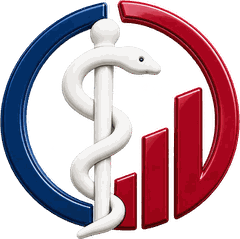
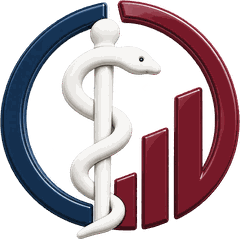
Verbindliche Logofassung einsetzen und das 3D-Signet daran ausrichten
Die hochgeladene Datei ist eine ANDERE als die, die bisher als Vorlage diente -
nicht nur eine andere Aufloesung. Gemessen:

  Rot   bisher #A7041C (helles Karminrot)  jetzt #741625 (Bordeaux)
  Blau  bisher helles Royalblau            jetzt #122F50

Beide entsprechen jetzt exakt den Farbtokens der Website. Das war der sichtbare
Fehler.

UEBER-UNS-SEITE
Dort steht die verbindliche Datei 1:1. Sie ist RGB ohne Alphakanal und traegt
den hellen Renderhintergrund fest im Bild - ein Freistellen scheitert an der
Vorlage: Der weisse Stab misst (244,241,238), der Grund daneben (244,239,238),
und ein Fuellalgorithmus frisst sich durch Stab, Schlange und "finanz".

Statt freizustellen ist der Grund auf das Elfenbein der Seite gezogen: Der
Verlauf des Renders wird oertlich geschaetzt (starker Weichzeichner durch die
Hintergrundmaske geteilt) und pixelweise auf #FAF8F7 verschoben, gewichtet
danach, wie hintergrundhaft ein Pixel ist. Die Bildkanten laufen weich aus.
Ergebnis: kein Kasten, keine Kante, nur der Schlagschatten der Marke selbst.

KOPF- UND FUSSZEILE
Dort geht das nicht - auf Navy stuende ein heller Kasten. Deshalb steht dort
weiter die freigestellte Datei aus dem Zweig netlify-website-changes, aber auf
die verbindlichen Farben umgefaerbt: Ton und Saettigung je Farbfamilie auf die
gemessenen Mediane, Helligkeit im gleichen Verhaeltnis, damit die Plastizitaet
des Renders erhalten bleibt. Bei 38 px liest sich das richtig; die Geometrie
[…]

diff --git a/assets/js/scene.js b/assets/js/scene.js
@@ -103,23 +103,30 @@
      0.92/245.3 umgerechnet, die y-Achse gespiegelt, weil Bilder nach unten
      zählen.
 
-     Zuvor stammten diese Maße aus einer nachgezeichneten SVG-Fassung und
-     wichen an drei Stellen sichtbar von der Vorlage ab: Die große Ringlücke
-     saß oben statt unten, der Stab stand zu weit links (-0.224 statt -0.097),
-     und alle Strichstärken waren rund ein Drittel der echten. Die Nachzeichnung
-     ist entfallen — überall steht jetzt die Originaldatei. */
+     Nachgemessen an der verbindlichen Fassung, die der Inhaber geliefert hat
+     (Logo_finanz-medizin.png, 1254 x 1254). Sie weicht von der Datei ab, die
+     zuvor als Vorlage diente: Deren Rot war ein helles Karminrot (#A7041C),
+     hier ist es das Bordeaux der Marke (gemessener Median #741625), und das
+     Blau ist #122F50 statt eines helleren Royalblaus. Beide entsprechen damit
+     genau den Farbtokens der Website.
+
+     Der Ring in der verbindlichen Fassung: Mitte (370.5, 351.9), Radius 314.9,
+     Strichstärke 60.8 px = 19,3 % des Radius. Der blaue Bogen läuft von 106°
+     über links und unten bis 301°, der bordeauxfarbene von 100° über rechts
+     bis ebenfalls rund 301°. Es gibt also nur EINE Lücke, oben, wo der Knauf
+     sitzt — unten stoßen die Bögen aneinander. */
   var SIG = {
     stabX: -0.097, stabUnten: -0.874, stabOben: 0.845,
-    /* Gemessen: oben 5,6° Lücke (dort sitzt der Knauf), unten 15,3°, wo der
-       Schwanz der Schlange austritt.
-       Die Zahlen sind gegenüber der Messung aufgeweitet, weil die Bögen mit
+    /* Oben 6° Lücke, unten stoßen die Bögen aneinander.
+       Die Winkel sind gegenüber der Messung aufgeweitet, weil die Bögen mit
        runden Enden gezeichnet werden: Eine runde Kappe steht um die halbe
-       Strichstärke über, bei 0.211 Breite und Radius 0.92 also um 6,6° je
-       Ende. Mit den gemessenen Winkeln (88,1° / 93,7°) berührten sich die
-       Kappen oben und die Lücke verschwände. Aufgeweitet um 2 x 6,6° steht
-       sie sichtbar dort, wo sie in der Vorlage steht. */
-    blauVon: 100.25 * DEG, blauBis: 251.15 * DEG,
-    rotVon:   81.55 * DEG, rotBis:  -80.45 * DEG,
+       Strichstärke über, bei 0.166 Breite und Radius 0.92 also um 5,2° je
+       Ende. Mit den gemessenen Winkeln berührten sich die Kappen oben und die
+       Lücke verschwände. Unten ist es umgekehrt gewollt: Dort enden beide
+       Bögen nur 5° voneinander entfernt, die Kappen überlappen, und die Marke
+       schließt sich so, wie sie es in der Vorlage tut. */
+    blauVon: 111.2 * DEG, blauBis: 303.0 * DEG,
+    rotVon:   94.8 * DEG, rotBis:  -62.0 * DEG,
     /* Fünf Segmente statt drei: Die Schlange der Vorlage macht zweieinhalb
        Windungen, nicht anderthalb. Die Stützpunkte sind die gemessenen
        Umkehrpunkte, die Kontrollpunkte senkrecht dazu — so kreuzt sie den Stab
@@ -267,15 +274,13 @@
        der andere weicher Kunststoff. Genau dieser Unterschied macht die Form
        auf den ersten Blick als Stethoskop lesbar.
 
-       Ziel 3 ist an der Originaldatei ausgemessen: Der Ring ist dort 56 px
-       stark bei 245 px Radius, also 0.211 in Szeneneinheiten, der Stab 0.150,
-       die Schlange 0.185. Vorher stand hier durchweg rund ein Drittel davon —
-       die Marke erschien als dünne Strichzeichnung statt als das kräftige
-       Zeichen, das sie ist. */
-    a: [0.048, 0.020, 0.014, 0.211],
-    b: [0.078, 0.030, 0.034, 0.211],
-    c: [0.022, 0.017, 0.017, 0.185],
-    d: [0.048, 0.052, 0.052, 0.150]
+       Ziel 3 ist an der verbindlichen Fassung ausgemessen: Der Ring ist dort
+       19,3 % des Radius stark, in Szeneneinheiten also 0.166 bei Radius 0.92.
+       Stab und Schlange stehen im selben Verhältnis dazu wie in der Vorlage. */
+    a: [0.048, 0.020, 0.014, 0.166],
+    b: [0.078, 0.030, 0.034, 0.166],
+    c: [0.022, 0.017, 0.017, 0.150],
+    d: [0.048, 0.052, 0.052, 0.122]
   };
   /* Dunkle Kontur, nur im Signet. Die Vorlage baut Stab und Schlange als
      helle Fläche in einer dunklen Kontur — ohne die verschwindet ein fast
@@ -318,11 +323,11 @@
     [[0.30, -0.90, 0.0, 0.16], [0.60, -0.90, 0.0, 0.16], [0.90, -0.90, 0.0, 0.16]],
     [[0.30, -0.72, 0.0, 0.16], [0.60, -0.72, 0.0, 0.16], [0.90, -0.72, 0.0, 0.16]],
     [[0.12, -0.90, 0.62, 0.20], [0.50, -0.90, 1.06, 0.20], [0.88, -0.90, 1.52, 0.20]],
-    /* Ziel 3 gemessen: Mitten bei 0.099 / 0.368 / 0.668, Höhen 0.277 / 0.645
-       / 0.822, Halbbreiten 0.101 / 0.122 / 0.129. Die Fußpunkte liegen in der
-       Vorlage bewusst nicht auf einer Linie — der Render kippt die Balken
-       leicht nach hinten, und genau das macht die Staffelung. */
-    [[0.099, -0.793, 0.277, 0.101], [0.368, -0.756, 0.645, 0.122], [0.668, -0.569, 0.822, 0.129]]
+    /* Ziel 3, an der verbindlichen Fassung gemessen. Sie baut die Balken anders
+       als die Datei, die zuvor als Vorlage diente: breit, dicht nebeneinander
+       und auf EINER Grundlinie bei -0.856, nicht gestaffelt. Der dritte reicht
+       mit seiner oberen rechten Ecke genau an die Innenkante des Rings. */
+    [[0.129, -0.856, 0.773, 0.092], [0.377, -0.856, 1.086, 0.101], [0.653, -0.856, 1.362, 0.101]]
   ];
   var BAR_A = [0, 0, 1, 1];
 
@@ -821,7 +826,12 @@
     var a = lerp(BAR_A[mo.i0], BAR_A[mo.i1], mo.f);
     if (a < 0.02) return;
     var B0 = BARS[mo.i0], B1 = BARS[mo.i1], ctx = this.ctx, self = this;
-    var d = 0.10; // Tiefe
+    /* Tiefe der Quader. Im Signet flacher als in der Wachstumskurve: Dort sind
+       die Balken ein Diagramm und duerfen Koerper haben, in der Bildmarke sind
+       sie flache Formen. Mit 0.10 stand der dritte Balken sichtbar ueber dem
+       Ring, weil die Extrusion ihn nach rechts schob. */
+    var signet = (mo.i0 === 3 ? 1 - mo.f : 0) + (mo.i1 === 3 ? mo.f : 0);
+    var d = lerp(0.10, 0.045, signet);
 
     for (var i = 0; i < 3; i++) {
       var x = lerp(B0[i][0], B1[i][0], mo.f);

diff --git a/assets/css/site.css b/assets/css/site.css
@@ -1643,18 +1643,19 @@ mark.platzhalter {
    unfertig; diese Fläche ist eine gestalterische Entscheidung und trägt
    nebenbei die Anschrift, die Vertrauen schafft. Kommt später ein Porträt
    dazu, tritt .person__bild wieder an ihre Stelle. */
-/* Hier steht die Wort-Bild-Marke im Original, freigestellt. Ein eigener
-   Schriftzug daneben entfiele doppelt — die Marke bringt ihn mit. */
+/* Hier steht die Wort-Bild-Marke im Original. Ein eigener Schriftzug daneben
+   entfiele doppelt — die Marke bringt ihn mit. */
 .person__signet {
   display: grid; justify-items: center; gap: .55rem;
   text-align: center;
 }
-/* Kein Rahmen, kein Schlagschatten: Die Datei hat keinen eigenen Grund mehr,
-   ein Schatten zeichnete deshalb ihr rechteckiges Bildfeld nach statt der
-   Marke. Das Bild steht frei auf der Fläche der Seite.
-   Die Breitenbegrenzung hält es in der Spalte auf der Größe, in der die
-   Schrift des Schriftzugs noch sauber steht. */
-.person__signet picture { display: block; width: 100%; max-width: 360px; }
+/* Kein Rahmen, kein Schlagschatten. Die Datei bringt den hellen Grund des
+   Renders mit, aber er ist auf das Elfenbein der Seite gezogen und die
+   Bildkanten laufen weich aus — es gibt also keine Kante, die ein Schatten
+   nachzeichnen könnte, und keine, die als Kasten auffällt.
+   Die Breitenbegrenzung hält die Marke in der Spalte auf der Größe, in der
+   der Schriftzug noch sauber steht. */
+.person__signet picture { display: block; width: 100%; max-width: 400px; }
 .person__signet img {
   display: block; width: 100%; height: auto;
 }

diff --git a/ueber-uns.html b/ueber-uns.html
@@ -360,7 +360,7 @@ height="0" width="0" style="display:none;visibility:hidden"></iframe></noscript>
         <picture>
           <source srcset="assets/img/logo-finanz-medizin.webp" type="image/webp">
           <img src="assets/img/logo-finanz-medizin.png" alt="Finanz-Medizin"
-               width="360" height="315" loading="lazy" decoding="async">
+               width="400" height="320" loading="lazy" decoding="async">
         </picture>
         <span class="person__signet-ort">Calvinstraße 3 · 10557 Berlin</span>
       </div>
